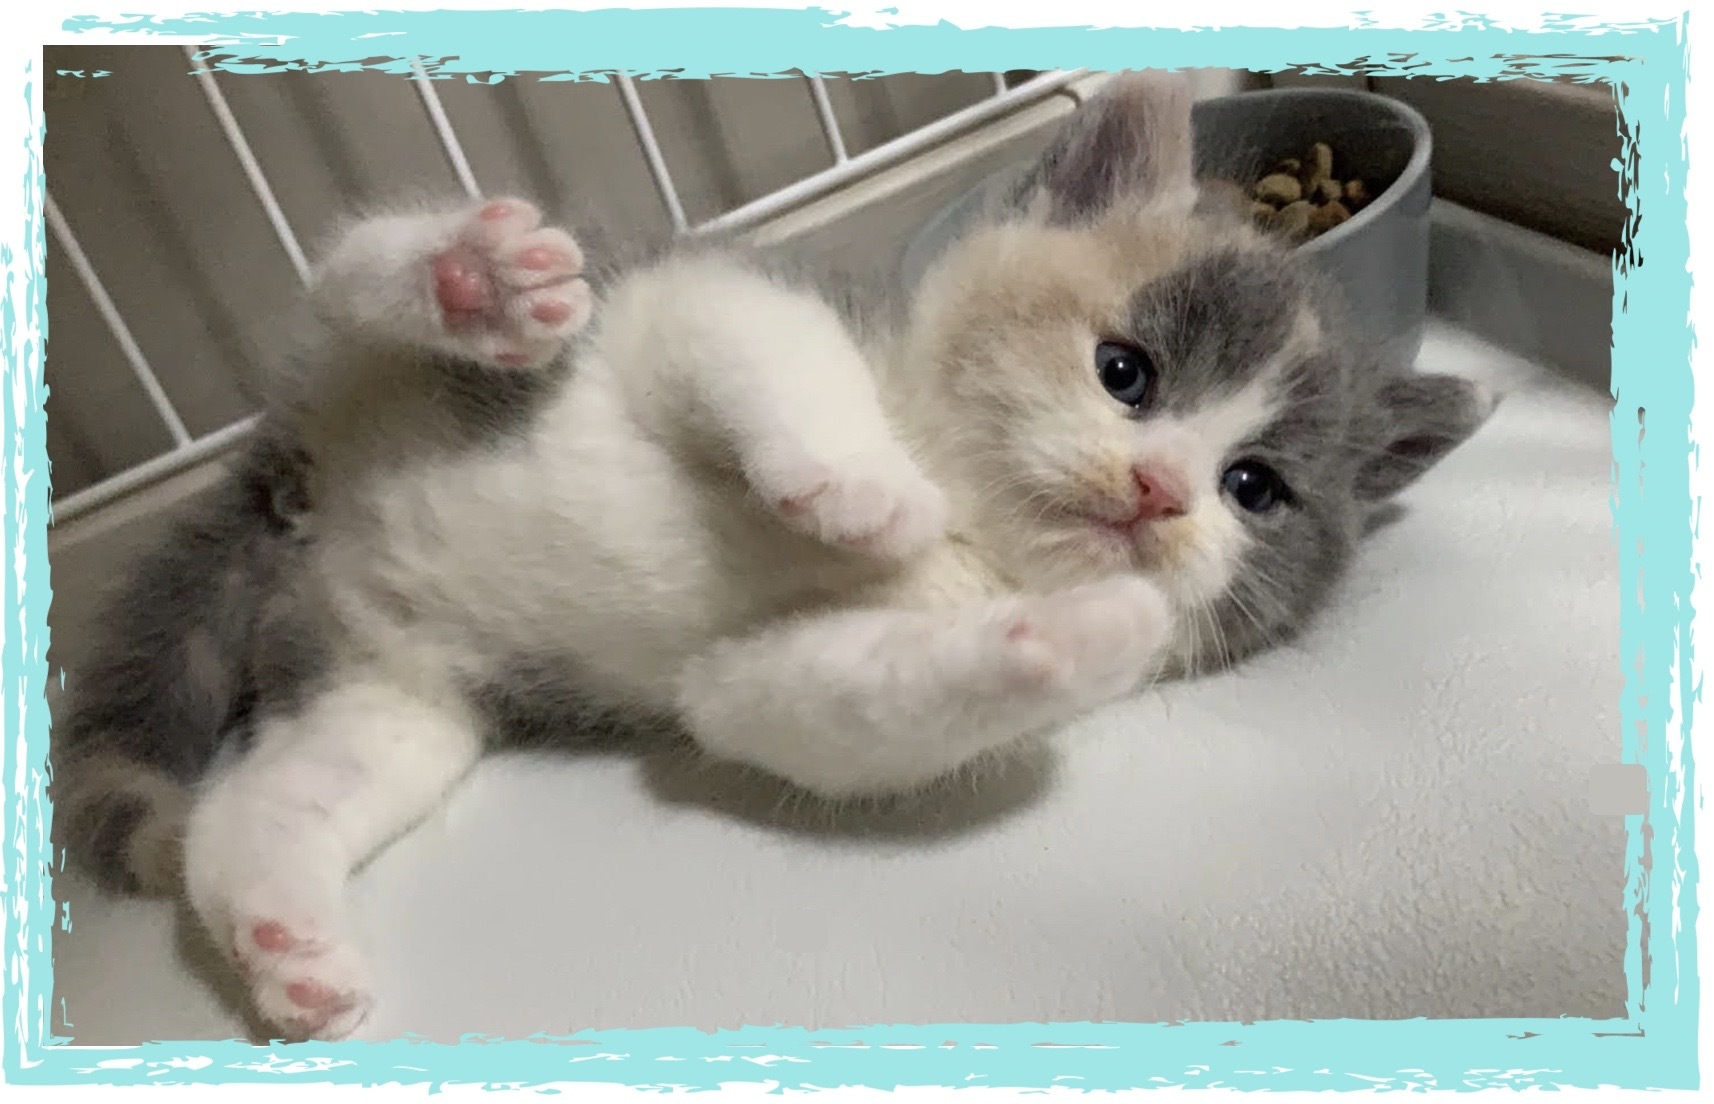
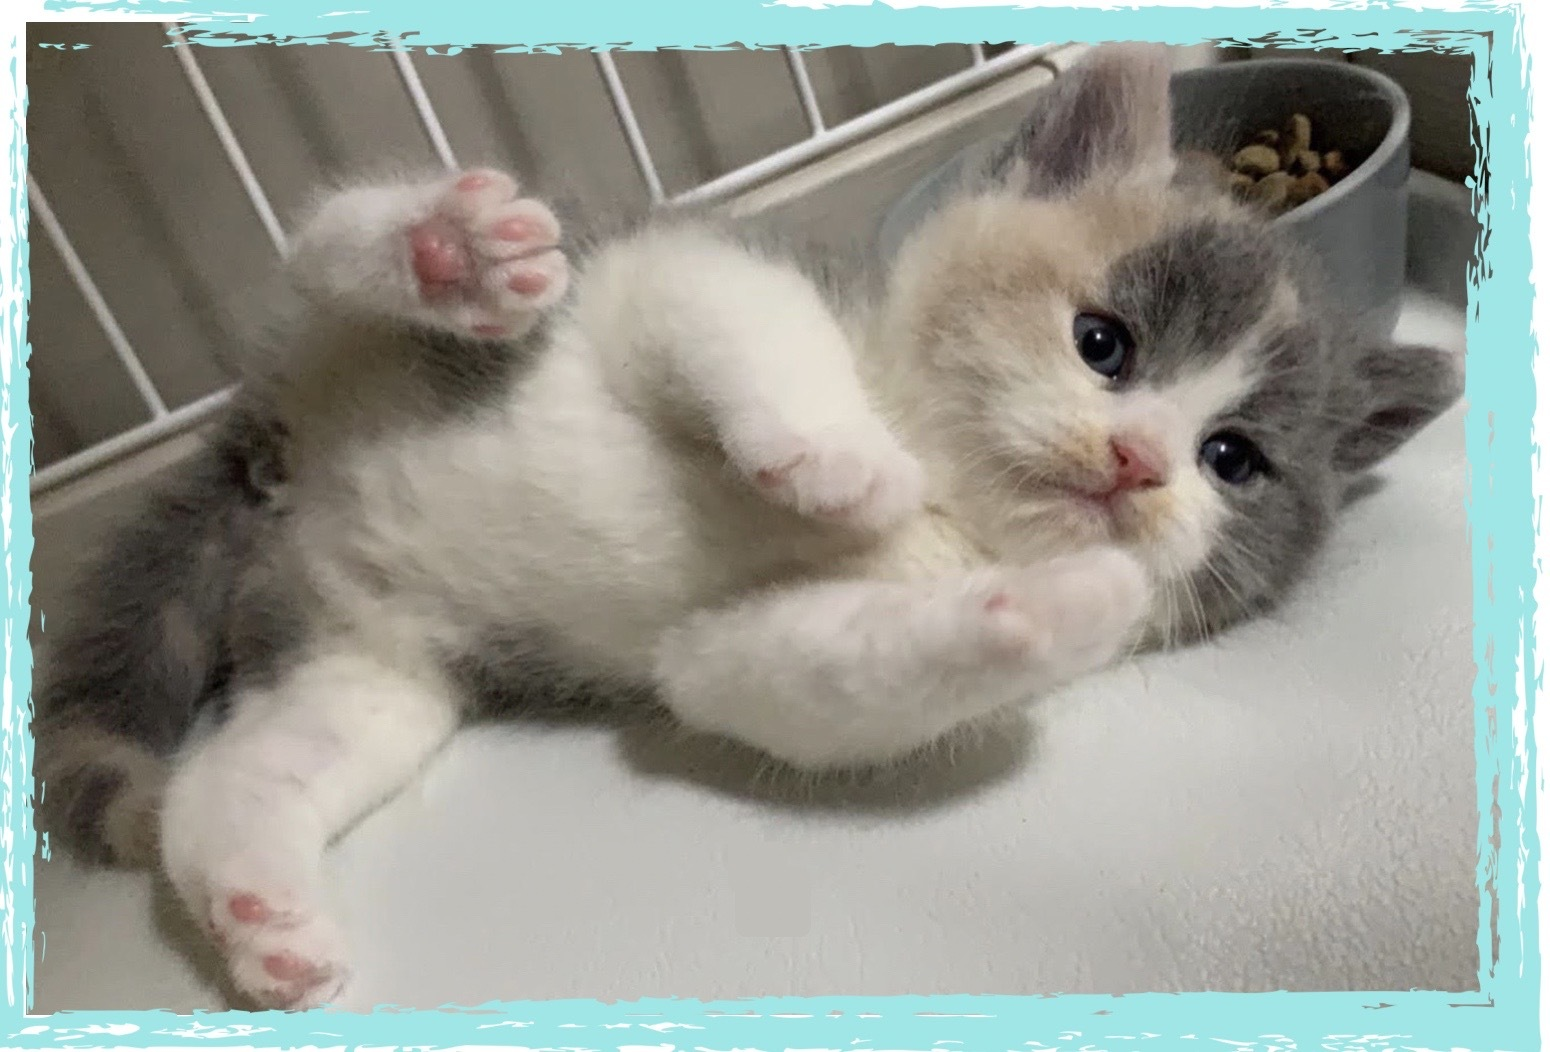
READMEの編集

diff --git a/README.md b/README.md
@@ -99,4 +99,5 @@ Ruby
 % rails s
 
 # 工夫したポイント
-食品期限によって表示される写真を３種類用意して、一目で大まかの期限が分かるようにした。
+私の家の猫を題材としました。猫好きな方が笑顔になることを意識して、所々に猫が出てくるようにしました。
+また、パステルカラーを基調として、優しい印象を与えられるようにしました。
